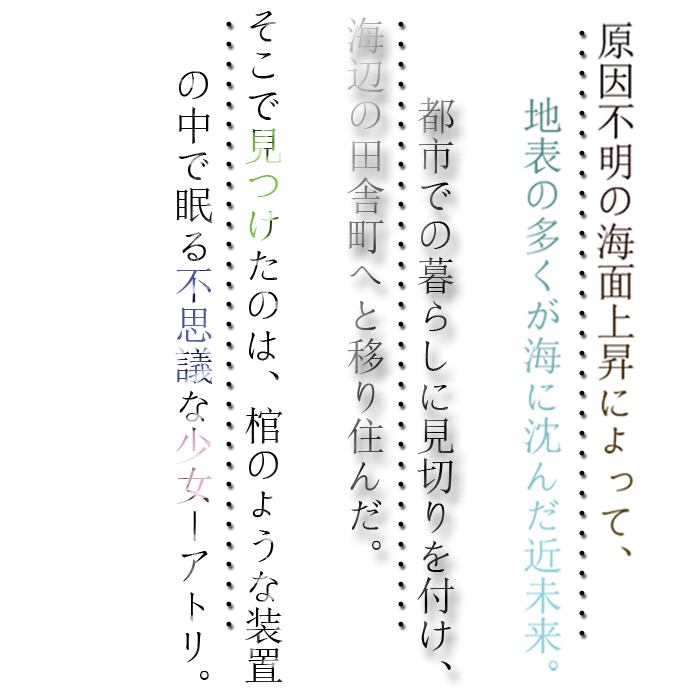
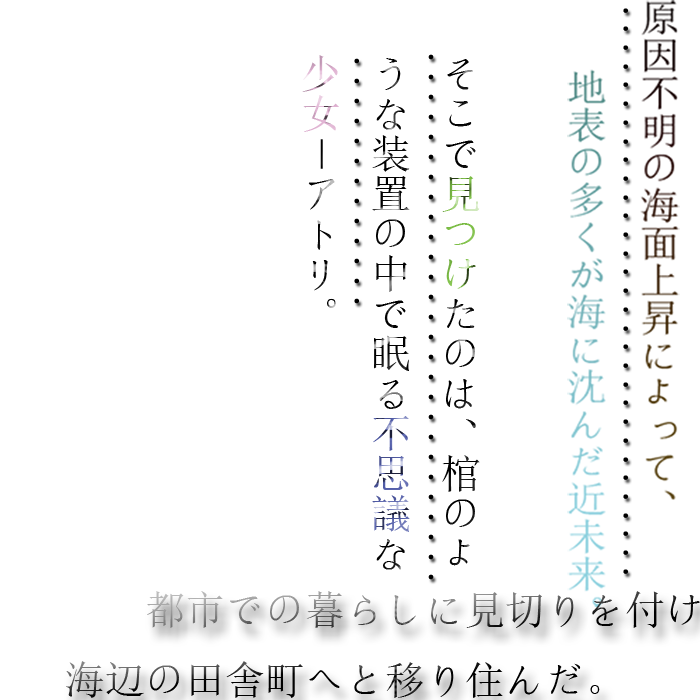
111

diff --git a/blog.html b/blog.html
@@ -177,7 +177,7 @@
 
             <!-- 音乐模块 -->
             <iframe id="music" v-show="false" frameborder="no" border="0" marginwidth="0" marginheight="0" width=330
-                height=86 src="https://music.163.com/outchain/player?type=2&id=440403794&auto=1&height=66"></iframe>
+                height=86 src="https://music.163.com/outchain/player?type=2&id=29129656&auto=1&height=66"></iframe>
 
             <!-- 背景图片1 -->
             <div class="bg1" style="height: 1500px;">
@@ -245,7 +245,7 @@
                 <div id="story" v-show="false" style="width: 650px;height: 100px;margin: auto;position: relative;">
                     <img src="./background/story.png" alt="" style="position: absolute;left: 0px;top: -50px;">
                     <img src="/background/story-text.png" alt=""
-                        style="width: 500px;height: 500px;position: absolute;top: 50px;;">
+                        style="width: 500px;height: 500px;position: absolute;top: 50px;right: -100px;">
                 </div>
 
             </div>
@@ -257,7 +257,8 @@
             </div>
 
             <!-- 第二张长背景 -->
-            <div class="bg1" style="position: relative;">
+            <div class="bg1"
+                style="position: relative;background-image: url(/background/atri-bg.png);background-size: 100%;">
 
                 <div id="character" v-show="false"
                     style="width: 650px;height: 100px;margin: auto;position: absolute;left: 450px;top: 20px;">
@@ -271,10 +272,22 @@
                 style="background-image: url(/background/sakuraTree.jpg);height: 300px; position: relative;">
 
                 <img v-show="false" id="atri-logo" src="/background/logo.svg" alt=""
-                    style="position: absolute;left: 900px;top:-550px;width: 400px;height: 150px;">
+                    style="position: absolute;left: 50px;top:-200px;width: 400px;height: 150px;">
 
                 <img id="atri-img1" v-show="false" src="/background/atri.png" alt=""
                     style="width: 900px;height: 810px;position: absolute;left: 300px;size: 100%;top: -600px;">
+
+
+                <img v-show="false" id="atri-txt1" src="/background/txt/txt_1.svg" alt=""
+                    style="position: absolute;width: 200px;height: 400px;top: -450px;left: 850px;">
+                <img v-show="false" id="atri-txt2" src="/background/txt/txt_2.svg" alt=""
+                    style="position: absolute;width: 200px;height: 400px;top: -450px;left: 400px;">
+                <img v-show="false" id="atri-txt3" src="/background/txt/txt_3.svg" alt=""
+                    style="position: absolute;width: 200px;height: 400px;top: -650px;left:280px;">
+                <img v-show="false" id="atri-txt4" src="/background/txt/txt_4.svg" alt=""
+                    style="position: absolute;width: 200px;height: 400px;top: -550px;left: 950px;">
+
+
 
                 <img style="width: 450px;height: 636px;position: absolute;top: -335px;left: 1090px;"
                     src="./background/白花1.png" alt="">
@@ -320,11 +333,12 @@
                 // $('.info').hide();
                 $('#pic1').fadeIn(2000);
                 $(window).scroll(function () {
-                    var x = 0;
                     var scroH = $(document).scrollTop();  //滚动高度
                     var viewH = $(window).height();  //可见高度
                     var contentH = $(document).height();  //内容高度
-                    console.log(scroH);
+
+                    console.log($('#atri-txt').children().eq(0));;
+
                     $('.bg1').css("background-position-y", scroH / 20 - 200);
 
                     if (scroH < 100) {
@@ -342,12 +356,24 @@
                     if (scroH > 1300) {  //距离顶部大于100px时
                         // $('.info').show();
                         $('#character').fadeIn(2000);
-                        $('#atri-img1').fadeIn(2000);
+                        $('#atri-img1').fadeIn(5000);
                         $('#atri-logo').fadeIn(2000);
+                        // $('#atri-txt').fadeIn(2000)
+
+                        $('#atri-txt1').fadeIn(2000);
+                        $('#atri-txt2').fadeIn(2000);
+                        $('#atri-txt3').fadeIn(4000);
+                        $('#atri-txt4').fadeIn(4000);
+
                     } if (scroH < 1300) {
                         $('#character').fadeOut(2000);
                         $('#atri-img1').fadeOut(2000);
                         $('#atri-logo').fadeOut(2000);
+
+                        $('#atri-txt1').fadeOut(2000);
+                        $('#atri-txt2').fadeOut(2000);
+                        $('#atri-txt3').fadeOut(2000);
+                        $('#atri-txt4').fadeOut(2000);
                     }
 
 
